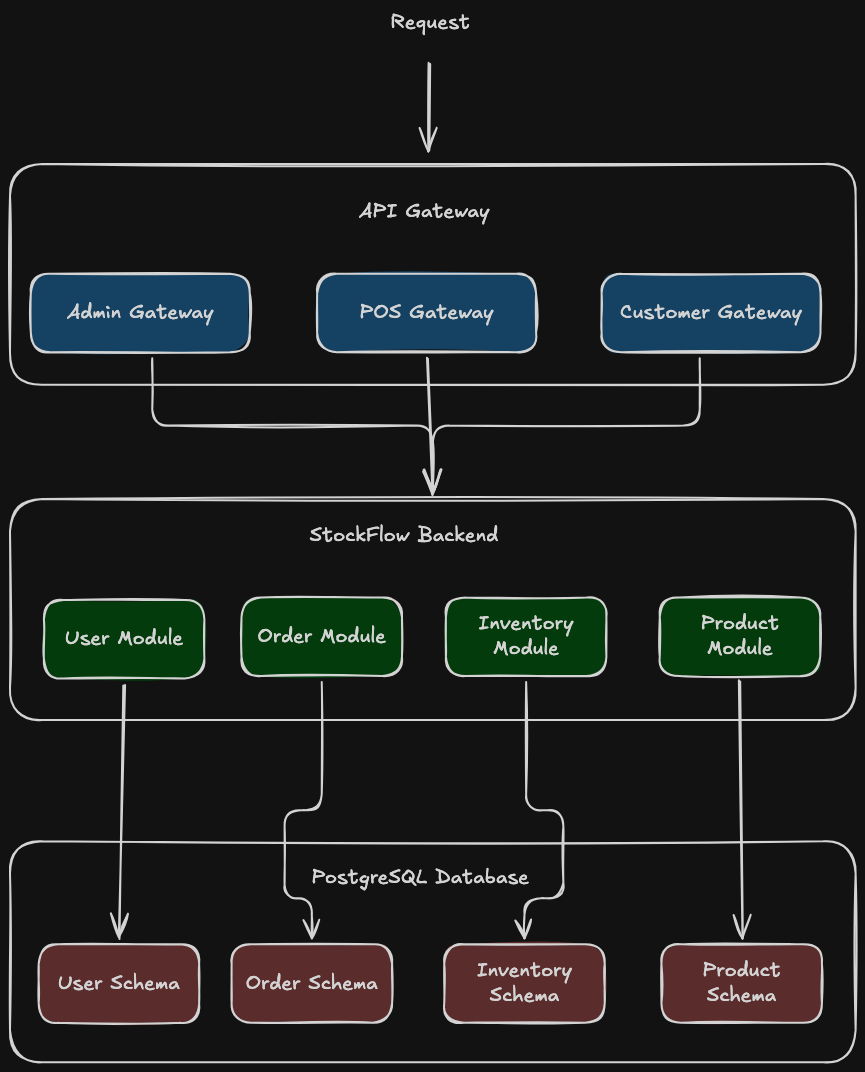
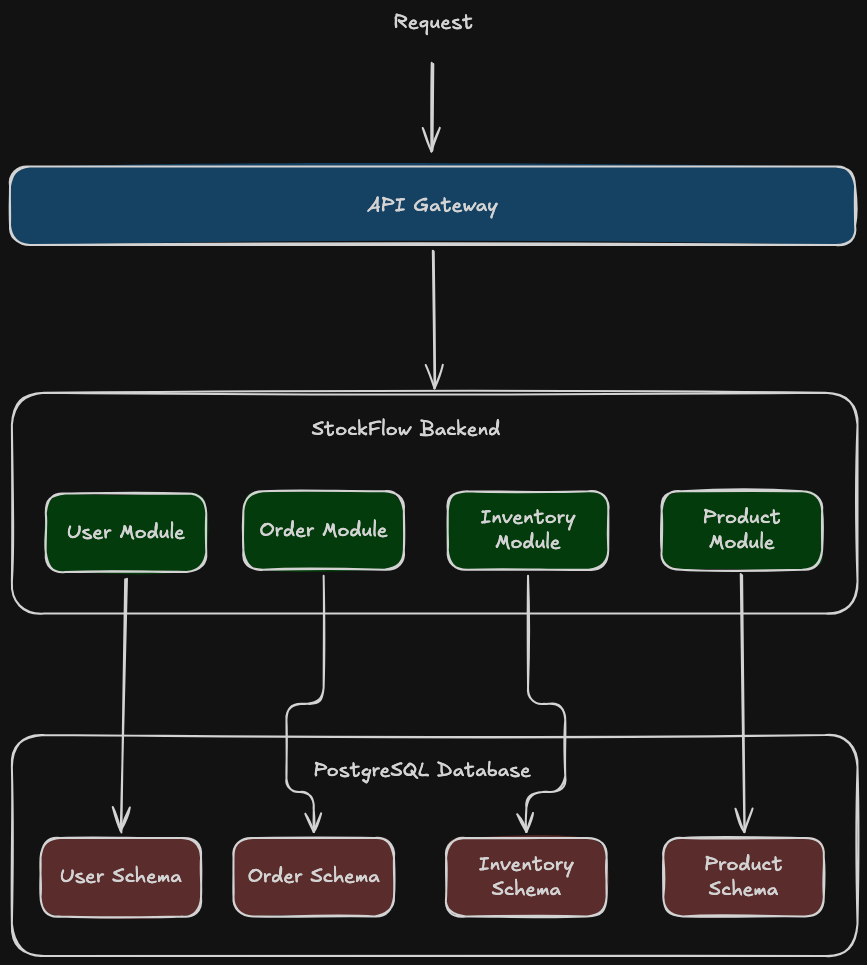
update the role description

diff --git a/functional-specs/func-specs-overview.md b/functional-specs/func-specs-overview.md
@@ -32,10 +32,10 @@ This allows organisations to focus more on business operations and customer serv
 
 | Role | Description | Main Responsibilities |
 |---|---|---|
-| `Platform Admin` | Operator of the StockFlow system | Setup accounts and assist `Merchant Admin` or `Merchant Manager` operations |
-| `Merchant Admin` | Business administrator for settlement operations | Manage account settings, staff access, settlement records and administrative business tasks |
-| `Merchant Manager` | Merchant manager responsible for daily operations | Manage products, categories, inventory updates, and eligible order within permitted scope |
-| `Merchant Staff` | Operational user responsible for day-to-day order handling | Create orders, view product information, check stock availability, and support customer checkout workflows |
+| `Platform Admin` | Operator of the StockFlow system | Setup accounts and assist `Merchant Owner` or `Shop Manager` operations |
+| `Merchant Owner` | Business owner to manage their business settlement | Manage account settings, staff access, settlement records and administrative business tasks |
+| `Shop Manager` | Shop manager responsible for daily operations | Manage products, categories, inventory updates, and eligible order within permitted scope |
+| `Shop Staff` | Operational user responsible for day-to-day order handling | Create orders, view product information, check stock availability, and support customer checkout workflows |
 | `Customer` | External customer placing orders through supported customer-facing ordering workflows | Browse products, add items to cart, place online orders, and complete checkout |
 
 Access control is based on roles and authorities. Detailed role-permission mapping will be documented in [`authentication-access-control.md`](./authentication-access-control.md).
@@ -43,7 +43,7 @@ Access control is based on roles and authorities. Detailed role-permission mappi
 
 ### Product Management
 
-Product Management is responsible for maintaining the product catalogue used across StockFlow. Organisations can manage product details, categories, and pricing from the backend system.
+Product Management is responsible for maintaining the product catalogue used across StockFlow. Merchants can manage product details, categories, and pricing from the backend system.
 
 Key capabilities include:
 
@@ -91,13 +91,9 @@ Key capabilities include:
 
 - Managing user accounts
 - Supporting user authentication
-- Managing roles such as `Platform Owner`, `Organisation Owner`, `Shop Manager`, and `Shop Staff`
+- Managing roles such as `Platform Admin`, `Merchant Owner`, `Shop Manager`, and `Shop Staff`
 - Assigning authorities such as `PRODUCT_READ`, `PRODUCT_DELETE`, `INVENTORY_UPDATE`, and `SHOP_ORDER_CREATE`
-- Supporting user groups for organising users by business function or responsibility
 - Protecting backend functions based on assigned roles and authorities
-- Supporting different access levels between platform-level users, organisation users, shop users, and customers
-- Organisation-owned data must be isolated from other organisations
-- Organisation users must not access users, products, inventory, shops, or orders belonging to another organisation
 - Shop-level users must access only shops within their permitted scope
 
 ### Gateway Workflows
@@ -307,8 +303,7 @@ Detailed business rules for each functional area will be documented in separate 
 
 ### Gateway Workflow Rules
 
-- External clients should access StockFlow through the gateway appropriate to their client type and workflow.
-- `POS Gateway`, `Customer Gateway`, and `Administration Gateway` should expose only the workflows relevant to their clients.
+- External clients should access StockFlow through the gateway appropriate to their workflow.
 - Gateways should validate incoming requests before forwarding them to the backend application.
 - Gateways should not contain core business logic such as inventory deduction, order state management, or product rules.
 - The internal backend application and database should not be exposed directly to external clients.

diff --git a/README.md b/README.md
@@ -35,8 +35,8 @@ To accommodate these different business needs, StockFlow supports three main ord
 
 StockFlow allows users to create and manage orders through different channels based on their roles and permissions:
 
-- `Merchant Manager`: Can manually create, amend and manage orders, as well as use the POS system to assist customers in-store.
-- `Merchant Staff`: Can use the POS system to create and process customer orders in-store.
+- `Shop Manager`: Can manually create, amend and manage orders, as well as use the POS system to assist customers in-store.
+- `Shop Staff`: Can use the POS system to create and process customer orders in-store.
 - `Customer`: Can independently place orders through self-checkout terminals in-store or through the online store.
 
 ![alt text](images/SF_OrderFlow.png)
@@ -78,7 +78,7 @@ This setup separates application services from persistent storage and provides a
 
 ## System Design Overview
 
-All incoming requests pass through the API gateway before reaching the StockFlow backend. The gateway exposes separate API routes for administrative users, merchant staff using the POS system, and customers. This separation allows routing, authentication, authorization, and other policies to be tailored to each client type.
+All incoming requests pass through the API gateway before reaching the StockFlow backend. The gateway exposes separate API routes for administrative users, shop staff using the POS system, and customers. This separation allows routing, authentication, authorization, and other policies to be tailored to each client type.
 
 The StockFlow backend follows a modular monolith architecture. It is deployed as a single application, while its business capabilities are organised into clearly defined modules, such as User, Order, Inventory, and Product.
 
